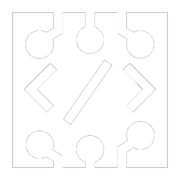
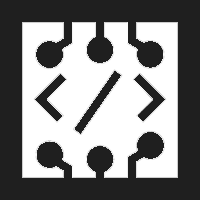
more PWA compatible

diff --git a/_includes/head/favicon.html b/_includes/head/favicon.html
@@ -23,4 +23,5 @@
 <meta name="msapplication-config" content="{{ __return }}">
 
 <meta name="theme-color" content="#1d1f21">
+<meta name="background-color" content="#1d1f21">
 <!-- end favicons snippet -->
